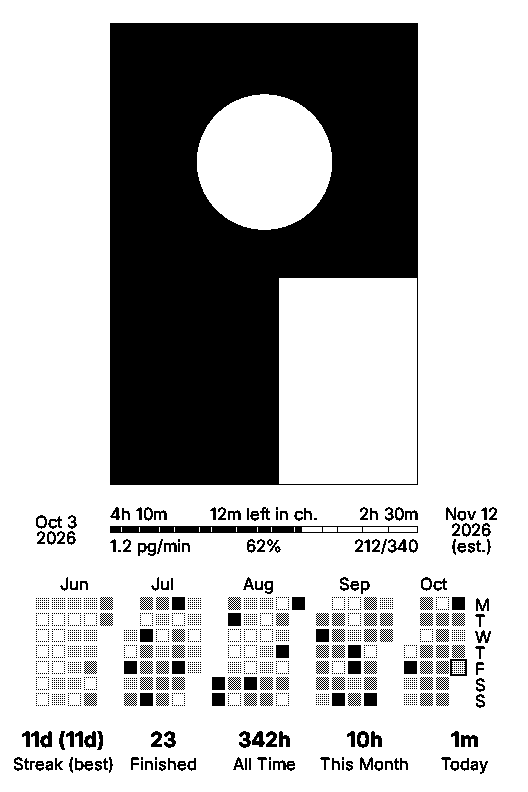
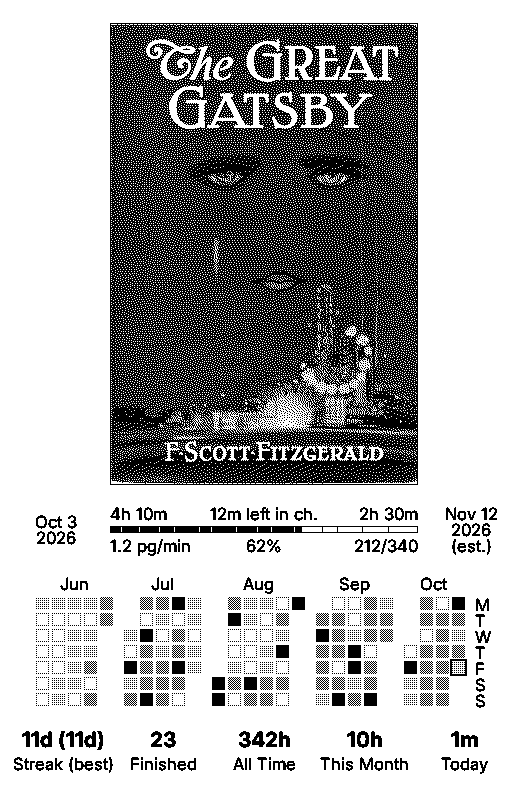
docs: use a real public-domain cover in the installer preview

Changed region(s): [[0.2121, 0.0303, 0.7879, 0.6364]]

diff --git a/index.html b/index.html
@@ -24,8 +24,8 @@
   h1 { font-size: 1.9rem; line-height: 1.2; margin: 0 0 8px; }
   h2 { font-size: 1.15rem; margin: 32px 0 10px; }
   p.lede { color: var(--muted); margin: 0 0 28px; }
-  .grid { display: grid; grid-template-columns: 1fr 220px; gap: 28px; align-items: start; }
-  @media (max-width: 640px) { .grid { grid-template-columns: 1fr; } .shot { max-width: 220px; } }
+  .grid { display: grid; grid-template-columns: 1fr 264px; gap: 28px; align-items: start; }
+  @media (max-width: 640px) { .grid { grid-template-columns: 1fr; } .shot { max-width: 264px; } }
   .card { background: var(--card); border: 1px solid var(--border); border-radius: 12px; padding: 20px; }
   ol { padding-left: 1.3em; margin: 0; } li { margin: 6px 0; }
   .install { margin: 18px 0 6px; }
@@ -67,7 +67,7 @@
     </div>
     <figure class="shot" style="margin:0">
       <img src="preview.png" alt="Reading Heatmap sleep screen: book cover, progress bar with chapter ticks, 5-month heatmap and streak stats" width="528" height="792">
-      <figcaption>Simulator preview with sample data</figcaption>
+      <figcaption>Simulator preview with sample data. Cover: <em>The Great Gatsby</em> (1925, public domain)</figcaption>
     </figure>
   </div>
 
